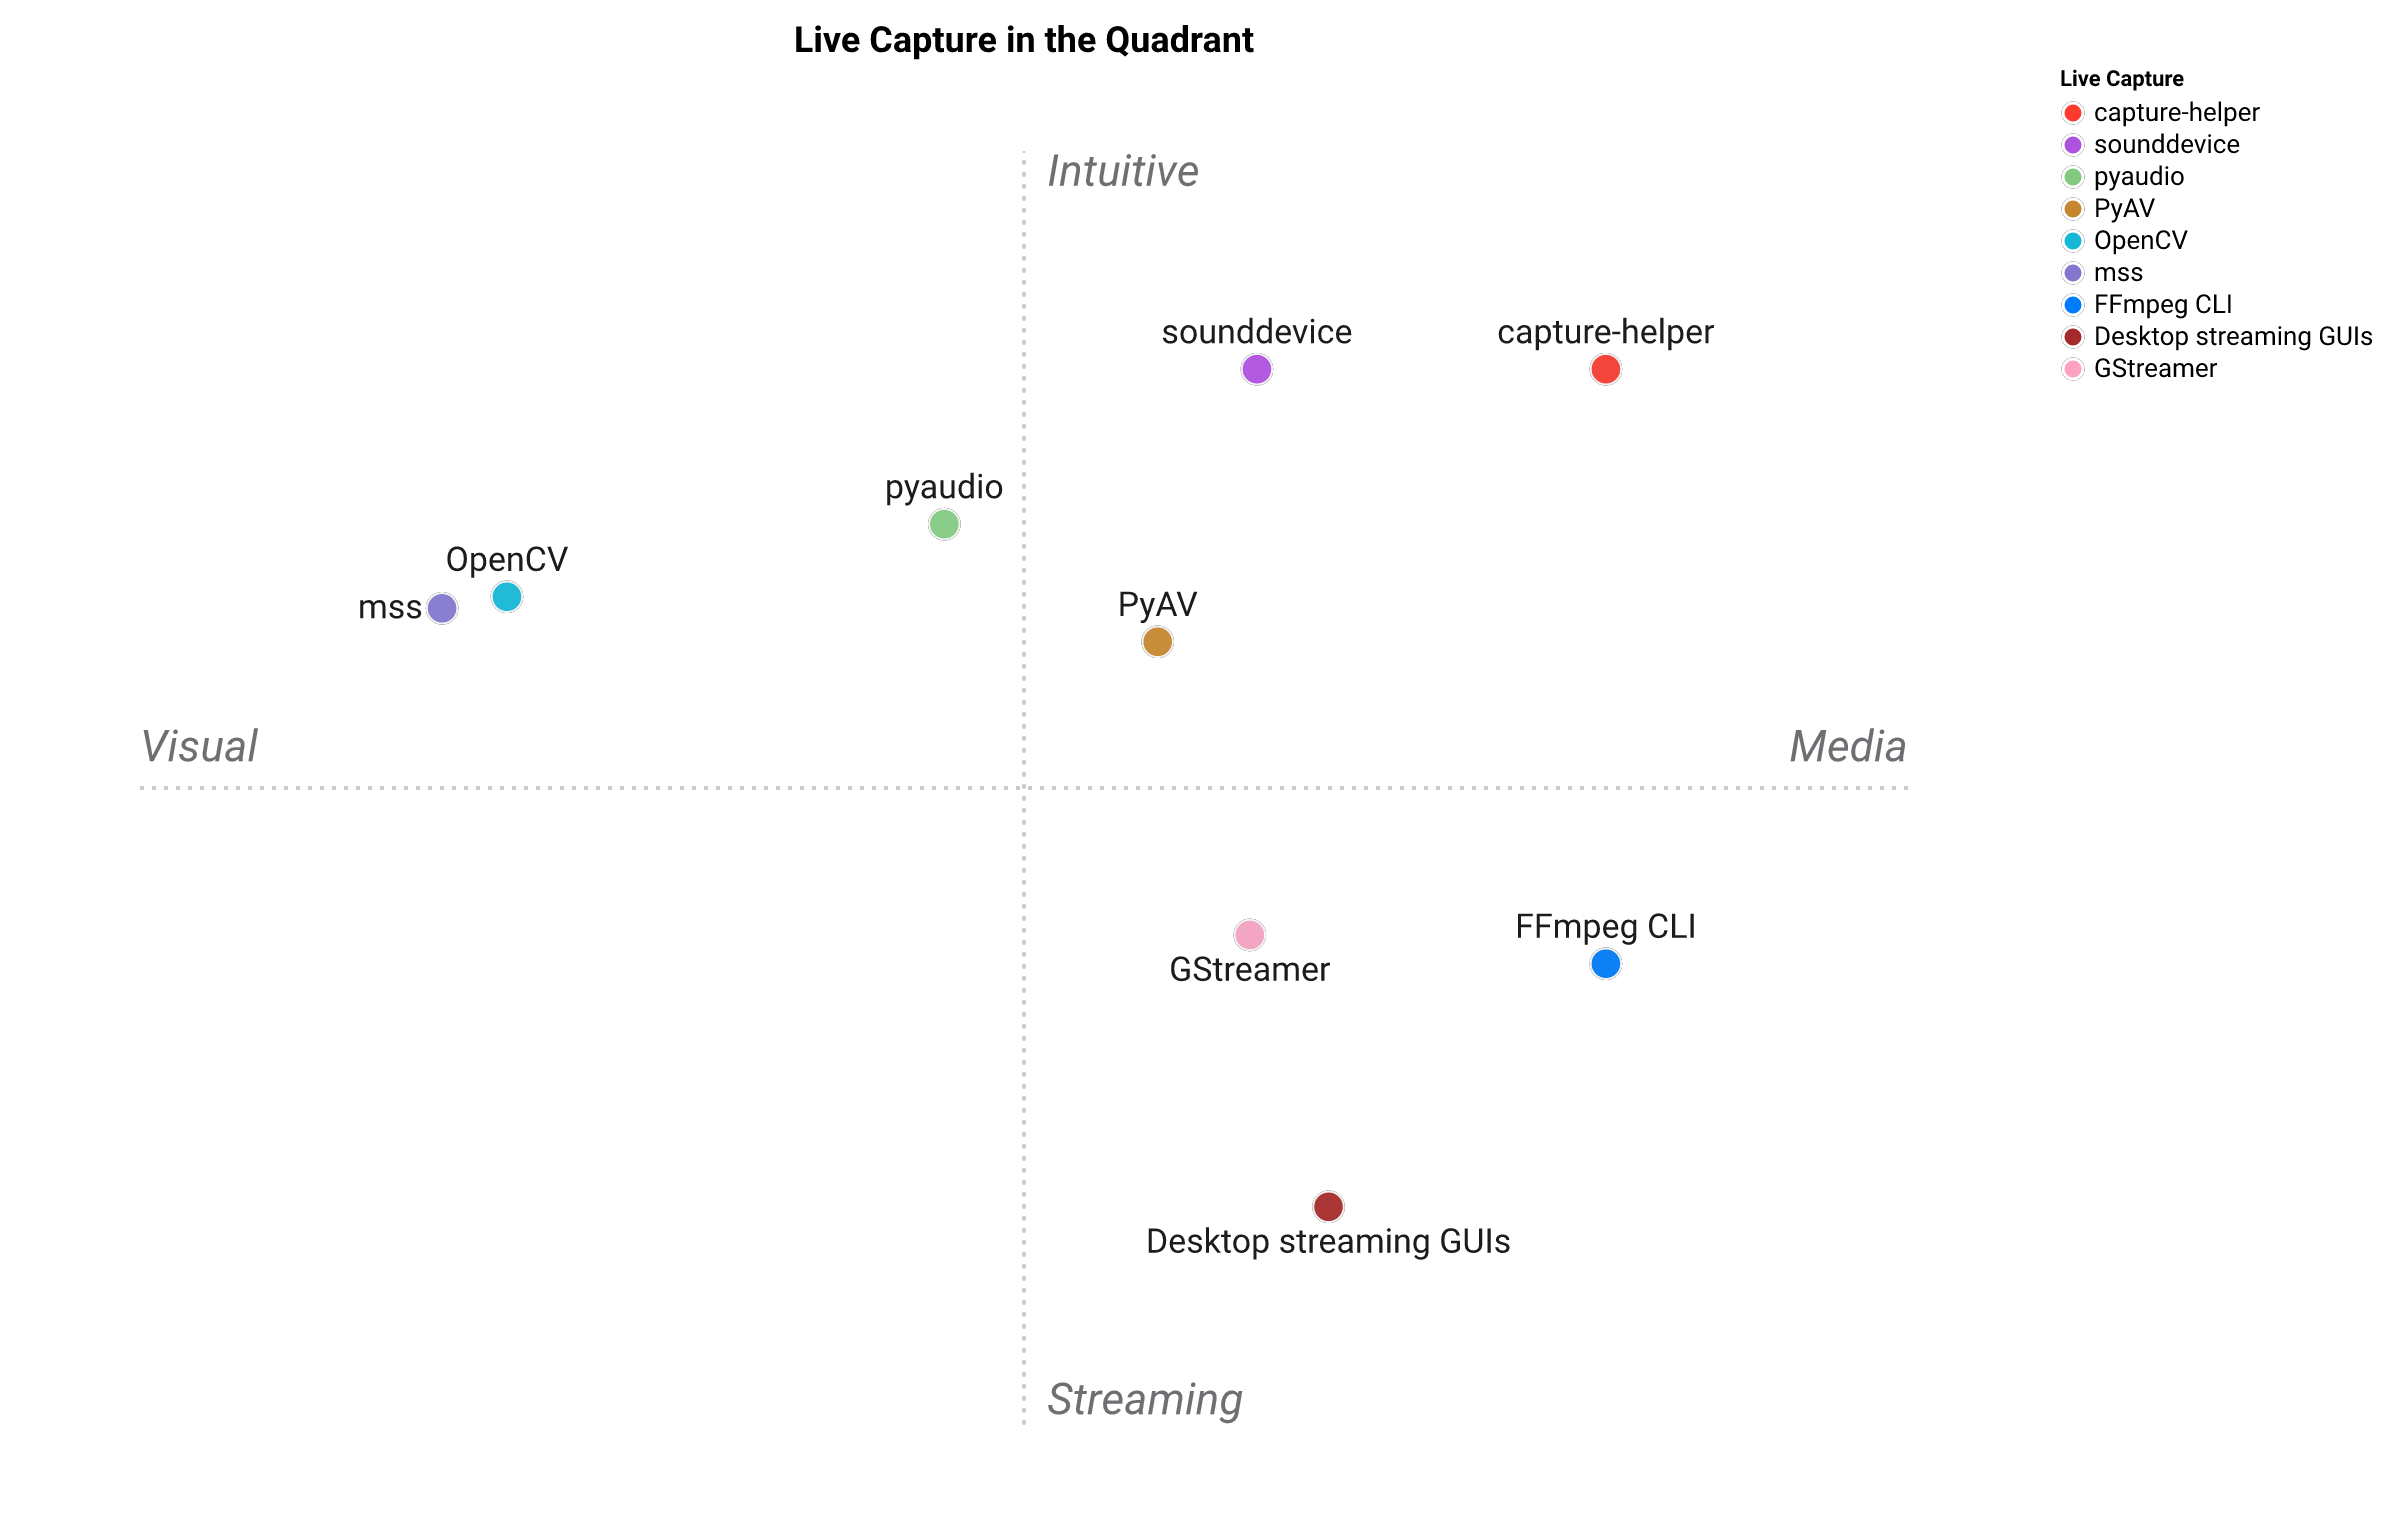
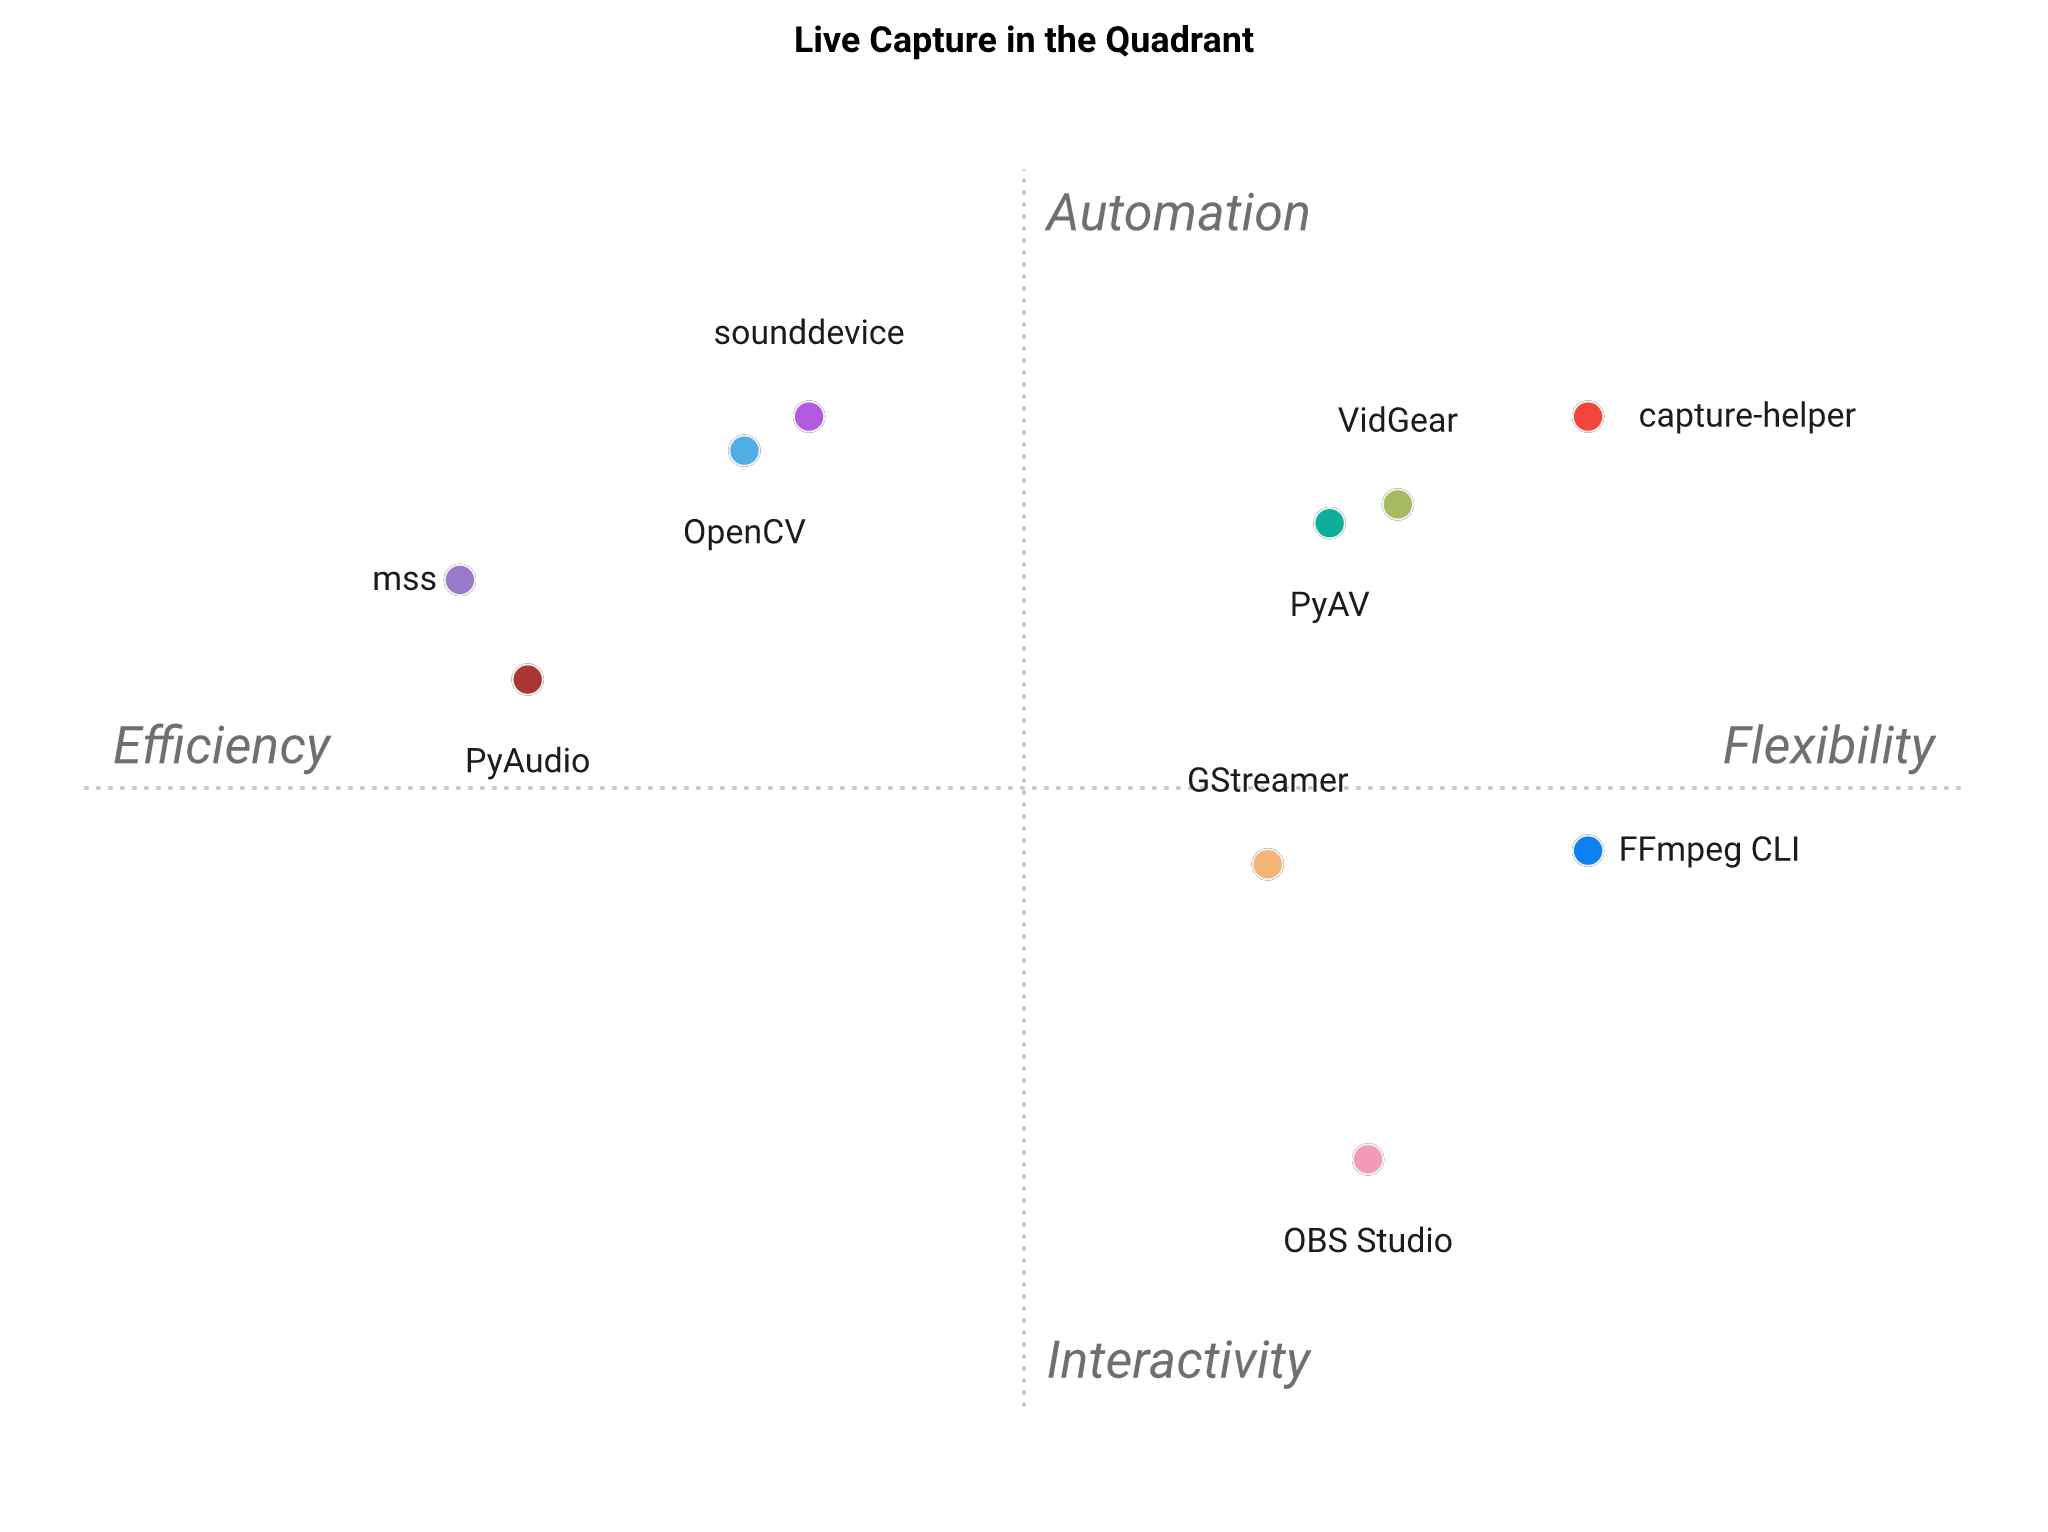
docs(landscape): name real capture rivals; regenerated positioning map
Replace the generic "Desktop streaming GUIs" row with OBS Studio and round out
the comparison with the real capture stack (FFmpeg CLI, GStreamer, sounddevice,
PyAudio, mss, VidGear, OpenCV, PyAV). Regenerate the figure via standpoint 0.6.0
and reconcile the positioning / when-to-pick prose with the named tools.

diff --git a/PAYSAGE.md b/PAYSAGE.md
@@ -19,12 +19,13 @@ seulement l'adéquation à *ce* créneau.
 | Capture en direct | Énumération multi-OS | Caméra en numpy | Micro en trames PCM | Natif ffmpeg | Streaming en direct | Ergonomie pipelines d'IA | Sans interface |
 | --- | :---: | :---: | :---: | :---: | :---: | :---: | :---: |
 | **capture-helper** | ⭐⭐⭐⭐⭐ | ⭐⭐⭐⭐⭐ | ⭐⭐⭐⭐⭐ | ⭐⭐⭐⭐⭐ | ⭐⭐ | ⭐⭐⭐⭐⭐ | ⭐⭐⭐⭐⭐ |
-| OpenCV | ⭐⭐ | ⭐⭐⭐⭐⭐ | ⭐ | ⭐⭐ | ⭐ | ⭐⭐⭐ | ⭐⭐⭐⭐⭐ |
+| OpenCV | ⭐ | ⭐⭐⭐⭐⭐ | ⭐ | ⭐⭐ | ⭐ | ⭐⭐⭐ | ⭐⭐⭐⭐⭐ |
 | PyAV | ⭐⭐⭐ | ⭐⭐⭐⭐ | ⭐⭐⭐ | ⭐⭐⭐⭐ | ⭐⭐⭐ | ⭐⭐⭐ | ⭐⭐⭐⭐⭐ |
-| sounddevice | ⭐⭐⭐⭐ | ⭐ | ⭐⭐⭐⭐⭐ | ⭐ | ⭐ | ⭐⭐⭐⭐ | ⭐⭐⭐⭐⭐ |
-| pyaudio | ⭐⭐⭐ | ⭐ | ⭐⭐⭐⭐ | ⭐ | ⭐ | ⭐⭐⭐ | ⭐⭐⭐⭐⭐ |
-| mss | ⭐⭐ | ⭐⭐⭐⭐ | ⭐ | ⭐ | ⭐ | ⭐⭐⭐ | ⭐⭐⭐⭐⭐ |
-| GUI de streaming de bureau | ⭐⭐⭐⭐ | ⭐⭐ | ⭐⭐ | ⭐⭐⭐ | ⭐⭐⭐⭐⭐ | ⭐⭐ | ⭐ |
+| sounddevice | ⭐⭐⭐ | ⭐ | ⭐⭐⭐⭐⭐ | ⭐ | ⭐ | ⭐⭐⭐⭐ | ⭐⭐⭐⭐⭐ |
+| PyAudio | ⭐⭐ | ⭐ | ⭐⭐⭐ | ⭐ | ⭐ | ⭐⭐ | ⭐⭐⭐⭐⭐ |
+| mss | ⭐ | ⭐⭐ | ⭐ | ⭐ | ⭐ | ⭐⭐⭐ | ⭐⭐⭐⭐⭐ |
+| VidGear | ⭐⭐ | ⭐⭐⭐⭐⭐ | ⭐ | ⭐⭐⭐⭐ | ⭐⭐⭐⭐⭐ | ⭐⭐⭐⭐ | ⭐⭐⭐⭐⭐ |
+| OBS Studio | ⭐⭐⭐⭐ | ⭐⭐ | ⭐⭐ | ⭐⭐⭐ | ⭐⭐⭐⭐⭐ | ⭐⭐ | ⭐ |
 | FFmpeg CLI | ⭐⭐⭐⭐⭐ | ⭐⭐ | ⭐⭐ | ⭐⭐⭐⭐⭐ | ⭐⭐⭐⭐⭐ | ⭐⭐ | ⭐⭐⭐⭐⭐ |
 | GStreamer | ⭐⭐⭐⭐ | ⭐⭐⭐ | ⭐⭐⭐ | ⭐⭐ | ⭐⭐⭐⭐⭐ | ⭐⭐ | ⭐⭐⭐⭐ |
 <!-- TABLE:END -->
@@ -36,7 +37,7 @@ Représentation 2D du tableau ci-dessus.
 
 ![Carte de positionnement](https://raw.githubusercontent.com/warith-harchaoui/capture-helper/main/assets/paysage.png)
 
-La carte est un résumé en 2D des 7 critères : à lire comme une forme, pas comme un classement. « capture-helper » se situe dans le coin en haut à droite. Les axes se lisent **Horizontal — Rapidité ↔ Polyvalence** et **Vertical — Flexibilité ↔ Simplicité**.
+La carte est un résumé en 2D des 7 critères : à lire comme une forme, pas comme un classement. « capture-helper » se situe dans le coin en haut à droite. Les axes se lisent **Horizontal — Simplicité ↔ Polyvalence** et **Vertical — Précision ↔ Intuitivité**.
 <!-- FIGURE:END -->
 
 ## Positionnement
@@ -63,10 +64,13 @@ d'une mise en place rugueuse et propre à chaque OS. sounddevice et
 pyaudio reposent sur portaudio et ne traitent que l'audio,
 respectivement par callback et en mode bloquant. mss (avec pyautogui /
 `ImageGrab` de Pillow) capture l'écran en ndarray RGB mais ne voit ni
-caméra ni microphone. Les GUI de streaming de bureau excellent au
-RTMP / HLS / enregistrement complet et se scriptent via une API
-WebSocket, mais exigent que l'application de bureau reste active et ne
-vous rendent pas les trames brutes. La CLI FFmpeg brute énumère avec
+caméra ni microphone. VidGear enveloppe OpenCV pour les trames caméra et
+superpose un streaming piloté par FFmpeg (`WriteGear` / `StreamGear`), si
+bien qu'il capture et diffuse bien la vidéo mais n'expose aucun chemin
+microphone. OBS Studio excelle au RTMP / HLS / enregistrement complet et
+se script via son API WebSocket, mais exige que l'application de bureau
+reste active et ne vous rend pas les trames brutes. La CLI FFmpeg brute
+énumère avec
 `-list_devices` et diffuse partout, mais vous laisse le remodelage et le
 typage Python à charge. GStreamer avec PyGObject est un pipeline
 Linux-first à faible latence, avec `rtmpsink` / `hlssink` prêts à
@@ -83,15 +87,17 @@ l'emploi, plus lourd à installer et moins portable.
   d'énumération multi-OS.
 - **PyAV** — vous voulez un accès direct à libav et acceptez de vous
   battre avec `avdevice` par OS.
-- **sounddevice / soundcard** — micro seulement, portaudio acceptable,
+- **sounddevice** — micro seulement, lectures portaudio par callback,
   pas de vidéo.
-- **pyaudio** — micro seulement, lectures portaudio bloquantes, pas de
+- **PyAudio** — micro seulement, lectures portaudio bloquantes, pas de
   vidéo.
-- **mss / ImageGrab** — captures d'écran seulement, ni caméra ni audio.
-- **GUI de streaming de bureau** — vous exécutez déjà une application de
-  streaming de bureau complète et voulez scripter les changements de
-  scène via son API WebSocket, pas consommer des trames brutes en
-  Python.
+- **mss** — captures d'écran seulement, ni caméra ni audio.
+- **VidGear** — vous voulez un framework vidéo performant adossé à
+  OpenCV avec streaming FFmpeg intégré ; caméras seulement, aucun chemin
+  microphone.
+- **OBS Studio** — vous exécutez déjà l'application de streaming de
+  bureau complète et voulez scripter les changements de scène via son
+  API WebSocket, pas consommer des trames brutes en Python.
 - **FFmpeg CLI (brute)** — vous voulez zéro dépendance Python et
   acceptez d'écrire vous-même le remodelage et la plomberie.
 - **GStreamer + PyGObject** — pipelines Linux-first à faible latence

diff --git a/LANDSCAPE.md b/LANDSCAPE.md
@@ -18,12 +18,13 @@ penalised — the score just reflects fit to *this* niche.
 | Live Capture | Cross-platform enumeration | Camera as numpy | Mic as PCM frames | ffmpeg-native | Live streaming | AI-pipeline ergonomics | Headless |
 | --- | :---: | :---: | :---: | :---: | :---: | :---: | :---: |
 | **capture-helper** | ⭐⭐⭐⭐⭐ | ⭐⭐⭐⭐⭐ | ⭐⭐⭐⭐⭐ | ⭐⭐⭐⭐⭐ | ⭐⭐ | ⭐⭐⭐⭐⭐ | ⭐⭐⭐⭐⭐ |
-| OpenCV | ⭐⭐ | ⭐⭐⭐⭐⭐ | ⭐ | ⭐⭐ | ⭐ | ⭐⭐⭐ | ⭐⭐⭐⭐⭐ |
+| OpenCV | ⭐ | ⭐⭐⭐⭐⭐ | ⭐ | ⭐⭐ | ⭐ | ⭐⭐⭐ | ⭐⭐⭐⭐⭐ |
 | PyAV | ⭐⭐⭐ | ⭐⭐⭐⭐ | ⭐⭐⭐ | ⭐⭐⭐⭐ | ⭐⭐⭐ | ⭐⭐⭐ | ⭐⭐⭐⭐⭐ |
-| sounddevice | ⭐⭐⭐⭐ | ⭐ | ⭐⭐⭐⭐⭐ | ⭐ | ⭐ | ⭐⭐⭐⭐ | ⭐⭐⭐⭐⭐ |
-| pyaudio | ⭐⭐⭐ | ⭐ | ⭐⭐⭐⭐ | ⭐ | ⭐ | ⭐⭐⭐ | ⭐⭐⭐⭐⭐ |
-| mss | ⭐⭐ | ⭐⭐⭐⭐ | ⭐ | ⭐ | ⭐ | ⭐⭐⭐ | ⭐⭐⭐⭐⭐ |
-| Desktop streaming GUIs | ⭐⭐⭐⭐ | ⭐⭐ | ⭐⭐ | ⭐⭐⭐ | ⭐⭐⭐⭐⭐ | ⭐⭐ | ⭐ |
+| sounddevice | ⭐⭐⭐ | ⭐ | ⭐⭐⭐⭐⭐ | ⭐ | ⭐ | ⭐⭐⭐⭐ | ⭐⭐⭐⭐⭐ |
+| PyAudio | ⭐⭐ | ⭐ | ⭐⭐⭐ | ⭐ | ⭐ | ⭐⭐ | ⭐⭐⭐⭐⭐ |
+| mss | ⭐ | ⭐⭐ | ⭐ | ⭐ | ⭐ | ⭐⭐⭐ | ⭐⭐⭐⭐⭐ |
+| VidGear | ⭐⭐ | ⭐⭐⭐⭐⭐ | ⭐ | ⭐⭐⭐⭐ | ⭐⭐⭐⭐⭐ | ⭐⭐⭐⭐ | ⭐⭐⭐⭐⭐ |
+| OBS Studio | ⭐⭐⭐⭐ | ⭐⭐ | ⭐⭐ | ⭐⭐⭐ | ⭐⭐⭐⭐⭐ | ⭐⭐ | ⭐ |
 | FFmpeg CLI | ⭐⭐⭐⭐⭐ | ⭐⭐ | ⭐⭐ | ⭐⭐⭐⭐⭐ | ⭐⭐⭐⭐⭐ | ⭐⭐ | ⭐⭐⭐⭐⭐ |
 | GStreamer | ⭐⭐⭐⭐ | ⭐⭐⭐ | ⭐⭐⭐ | ⭐⭐ | ⭐⭐⭐⭐⭐ | ⭐⭐ | ⭐⭐⭐⭐ |
 <!-- TABLE:END -->
@@ -35,7 +36,7 @@ penalised — the score just reflects fit to *this* niche.
 
 ![Positioning map](https://raw.githubusercontent.com/warith-harchaoui/capture-helper/main/assets/landscape.png)
 
-The map is a 2-D summary of the seven criteria, so read it as a shape, not a scoreboard. `capture-helper` is at the top-right corner. The axes read **Horizontal — Visual ↔ Media** and **Vertical — Streaming ↔ Intuitive**.
+The map is a 2-D summary of the seven criteria, so read it as a shape, not a scoreboard. `capture-helper` is at the top-right corner. The axes read **Horizontal — Efficiency ↔ Flexibility** and **Vertical — Interactivity ↔ Automation**.
 <!-- FIGURE:END -->
 
 ## Positioning
@@ -59,9 +60,12 @@ bare index — but hands back a native BGR ndarray. PyAV exposes
 per-OS setup. sounddevice and pyaudio are portaudio-backed and
 audio-only, callback- and blocking-based respectively. mss (with
 pyautogui / Pillow `ImageGrab`) grabs the screen as an RGB ndarray but
-sees no camera or microphone. Desktop streaming GUIs shine at full
-RTMP / HLS / recording and can be scripted through a WebSocket API, but
-they need the desktop app alive and do not hand you raw frames. The raw
+sees no camera or microphone. VidGear wraps OpenCV for camera frames and
+layers FFmpeg-backed streaming (`WriteGear` / `StreamGear`) on top, so it
+captures and streams video well but exposes no microphone path. OBS
+Studio shines at full RTMP / HLS / recording and can be scripted through
+its WebSocket API, but it needs the desktop app alive and does not hand
+you raw frames. The raw
 FFmpeg CLI enumerates with `-list_devices` and streams anywhere, yet
 leaves the reshape and Python typing to you. GStreamer with PyGObject
 is a Linux-first, low-latency pipeline with `rtmpsink` / `hlssink` out
@@ -76,13 +80,16 @@ of the box, heavier to install and less portable.
   need cameras, no mics, no cross-OS enumeration niceties.
 - **PyAV** — you want direct libav access and are comfortable
   wrestling with `avdevice` per-OS.
-- **sounddevice / soundcard** — mic-only, portaudio is acceptable,
+- **sounddevice** — mic-only, portaudio-backed callback reads,
   no video.
-- **pyaudio** — mic-only, blocking portaudio reads, no video.
-- **mss / ImageGrab** — screenshots only, no camera or audio.
-- **Desktop streaming GUIs** — you already run a full desktop
-  streaming app and want to script scene switches through its
-  WebSocket API, not consume raw frames in Python.
+- **PyAudio** — mic-only, blocking portaudio reads, no video.
+- **mss** — screenshots only, no camera or audio.
+- **VidGear** — you want a high-performance OpenCV-backed video
+  framework with built-in FFmpeg streaming; cameras only, no
+  microphone path.
+- **OBS Studio** — you already run the full desktop streaming app
+  and want to script scene switches through its WebSocket API, not
+  consume raw frames in Python.
 - **FFmpeg CLI (raw)** — you want zero Python dependency and are
   willing to write the reshape / plumbing yourself.
 - **GStreamer + PyGObject** — Linux-first low-latency pipelines with
